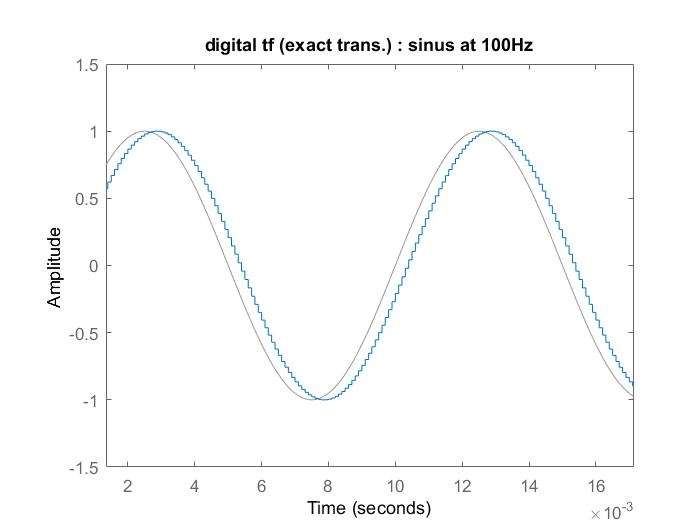
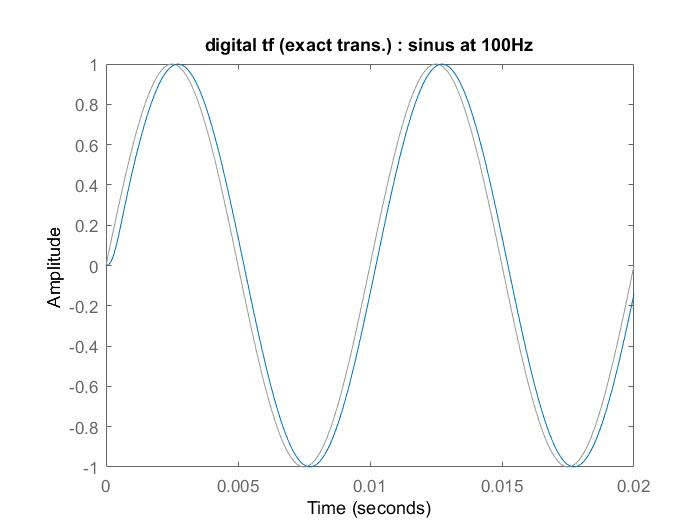
corrected ic

diff --git a/task1.m b/task1.m
@@ -18,7 +18,7 @@ d2 = 1;
 Den = [d0, d1, d2];
 
 %continuous tf
-filter_tf = tf(Num, Den) 
+filter_a_tf = tf(Num, Den) 
 
 %sampling frequency
 fs = 10*fc;
@@ -53,7 +53,7 @@ filter_d2_tf = zpk(zd2, pd2, kd2, Ts)
 
 %---------------------------------------------------------------------------------------
 %plot zero and pole with exact transformation
-%{
+
 zplane(zd1, pd1)
 grid
 title('Z-plane with exact transformation')
@@ -74,7 +74,7 @@ bode(filter_d2_tf)
 
 %plot the continuous transfert function
 hold on
-bode(filter_tf)
+bode(filter_a_tf)
 legend('Bode with exact transformation', 'Bode with bilinear approximation', 'Bode of the continuous tf')
 
 %------------------------------------------------------------------------------------------------------------
@@ -82,7 +82,7 @@ legend('Bode with exact transformation', 'Bode with bilinear approximation', 'Bo
 %step
 figure
 subplot(1,3,1)
-step(filter_tf)
+step(filter_a_tf)
 xlabel('time')
 ylabel('output')
 legend('analog tf')
@@ -96,16 +96,39 @@ step(filter_d2_tf)
 xlabel('time')
 ylabel('output')
 legend('bilinear approximation tf')
-%}
+
 
 %sin 100Hz
-N=0.004
+N=0.02
 t = 0:Ts:N;
 wt1 = 100 * 2 * pi; %rad/sec
 wt2 = 2e3 * 2 * pi; %rad/sec
 sig_sin_ft1 = sin(wt1 * t)
 sig_sin_ft2 = sin(wt2 * t)
+
+%simulate the digital tf constructed with the bilinear approximation
 figure
 lsim(filter_d2_tf, sig_sin_ft2, t)
 title('digital tf (bilinear approx.) : sinus at 2kHz');
 
+figure 
+lsim(filter_d2_tf, sig_sin_ft1, t)
+title('digital tf (bilinear approx.) : sinus at 100Hz');
+
+%simulate the digital tf constructed with the exact transformation
+figure
+lsim(filter_d1_tf, sig_sin_ft2, t)
+title('digital tf (exact trans.) : sinus at 2kHz');
+
+figure 
+lsim(filter_d1_tf, sig_sin_ft1, t)
+title('digital tf (exact trans.) : sinus at 100Hz');
+
+%simulate the analog tf
+figure
+lsim(filter_a_tf, sig_sin_ft2, t)
+title('digital tf (exact trans.) : sinus at 2kHz');
+
+figure 
+lsim(filter_a_tf, sig_sin_ft1, t)
+title('digital tf (exact trans.) : sinus at 100Hz');

diff --git a/digitalFilter.m b/digitalFilter.m
@@ -53,6 +53,8 @@ legend('analog filter','digital 1 filter', 'digital 2 filter')
 %--------------------------------------------------------------------------
 %get the 2 2nd order tf : from zpk to sos
 sos = zp2sos(z_d, p_d, k_d)
+
+%plot the frequency response
 [mag, freq] = freqz(sos, 100);
 figure
 plot(freq/pi,20*log10(abs(mag)))
@@ -62,7 +64,7 @@ ax.XTick = 0:.5:2;
 xlabel('Normalized Frequency (\times\pi rad/sample)')
 ylabel('Magnitude (dB)')
 
-%now extract the coeff for the first stage
+%get the coeff for the first stage
 b0_1 = sos(1,1)
 b1_1 = sos(1,2)
 b2_1 = sos(1,3)
@@ -70,13 +72,22 @@ a0_1 = sos(1,4)
 a1_1 = sos(1,5)
 a2_1 = sos(1,6)
 
-%now extract the coeff for the first stage
+%get the coeff for the first stage
 b0_2 = sos(2,1)
 b1_2 = sos(2,2)
 b2_2 = sos(2,3)
 a0_2 = sos(2,4)
 a1_2 = sos(2,5)
 a2_2 = sos(2,6)
+
+%write .txt with the values
+x = 0:.1:1;
+A = [x; exp(x)];
+
+fileID = fopen('coeff.txt','w');
+fprintf(fileID,'%6s %12s\n','x','exp(x)');
+fprintf(fileID,'%6.2f %12.8f\n',A);
+fclose(fileID);
 
 
 
